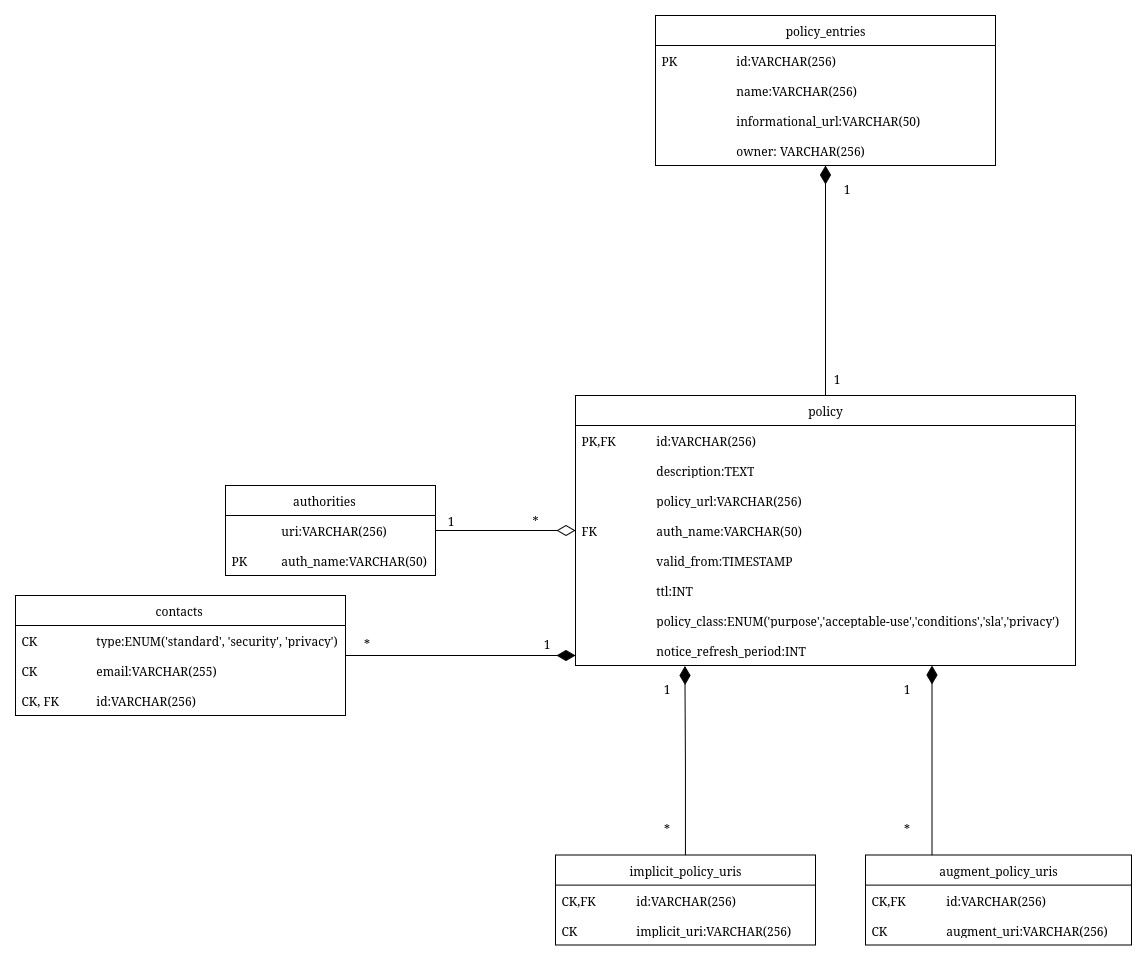
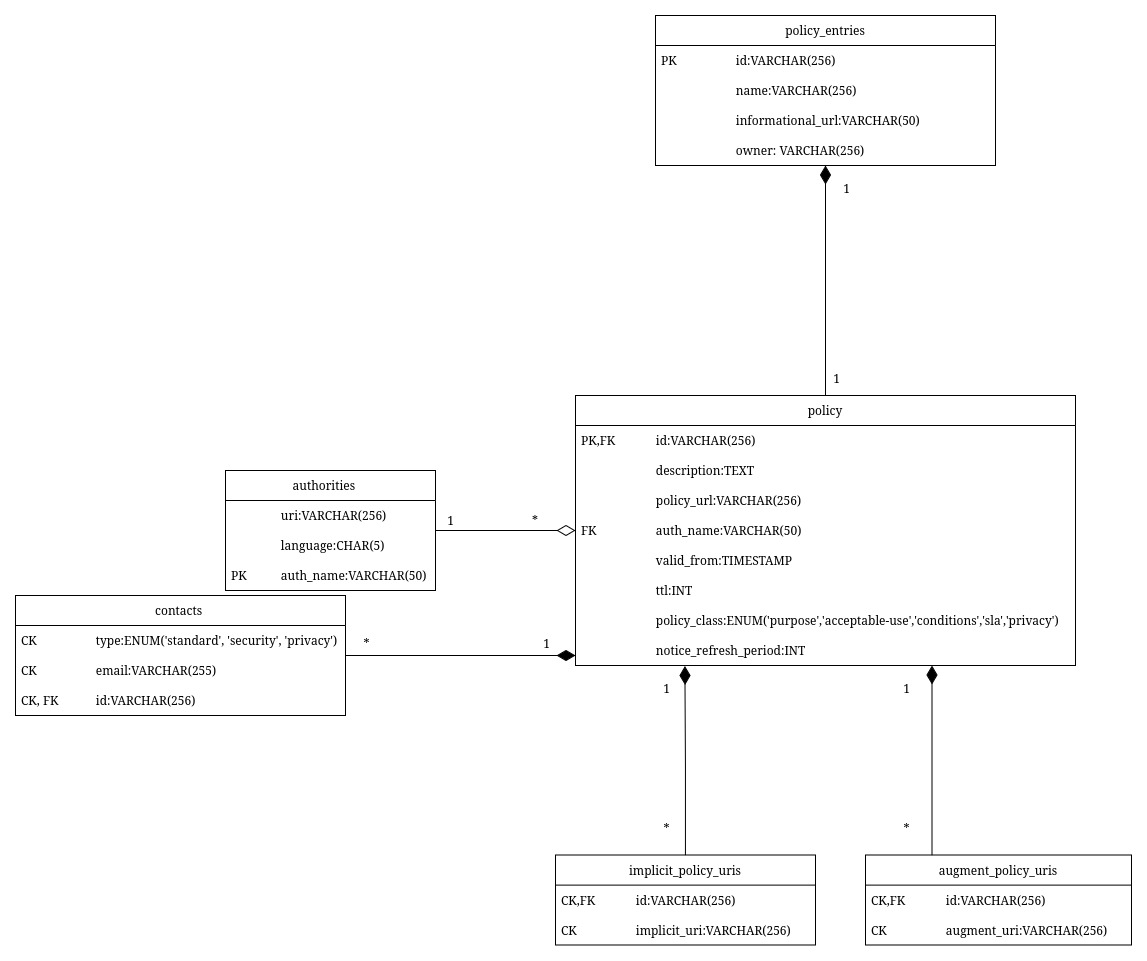
Attempt at updating auth for language

diff --git a/dbInit.py b/dbInit.py
@@ -31,6 +31,17 @@ def init_db():
             logger.info(f'Found a place to replace the base:{api_base} for actual uuid')
             command = str(command).replace("REPLACE_BASE_FOR_UUID",api_base)
             logger.info(f'The replaced command:{command}')
+        
+        if "REPLACE_AUTH_NAME_FOR_ID:" in command:
+            logger.info(f'Gonna replace for auth_id')
+            startOfName = str(command).find('REPLACE_AUTH_NAME_FOR_ID:')
+            startOfReplace = startOfName
+            startOfName +=len('REPLACE_AUTH_NAME_FOR_ID:')
+            endOfName = str(command).find(':',startOfName)
+            idQuery = f'SELECT auth_id FROM authorities WHERE auth_name = \'{str(command)[startOfName:endOfName]}\';'
+            cursor.execute(idQuery)
+            auth_id = int(cursor.fetchone())
+            command = str(command).replace(str(command)[startOfReplace:endOfName+1],str(auth_id))
 
         if command:
             try:
